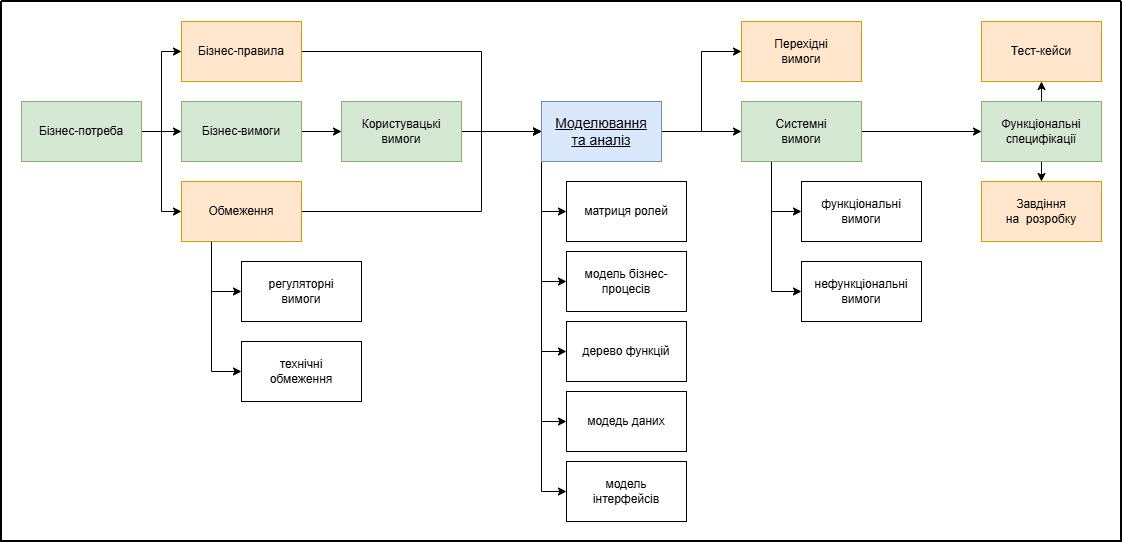
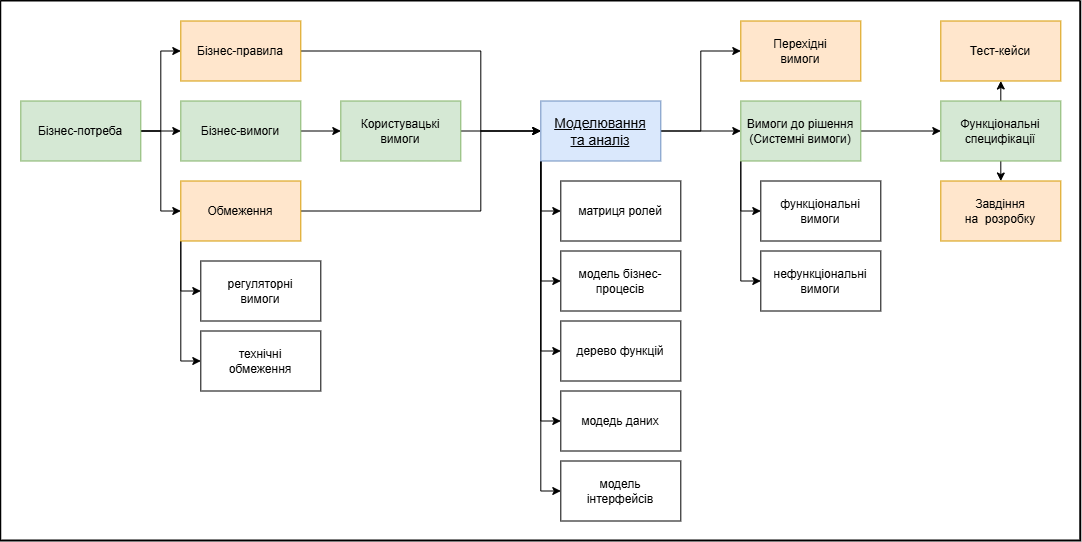
update page concept

Changed region(s): [[0.0, 0.0, 1.0, 1.0]]

diff --git a/concept.html b/concept.html
@@ -488,7 +488,7 @@
               </td>
             </tr>
             <tr>
-              <td>Вимоги до&nbsp;рішення</td>
+              <td>Вимоги до&nbsp;рішення (Системні вимоги)</td>
               <td class="ps-5">
                 Описують можливості та&nbsp;якості рішення, яке відповідає
                 вимогам зацікавлених сторін. Вони забезпечують необхідний рівень
